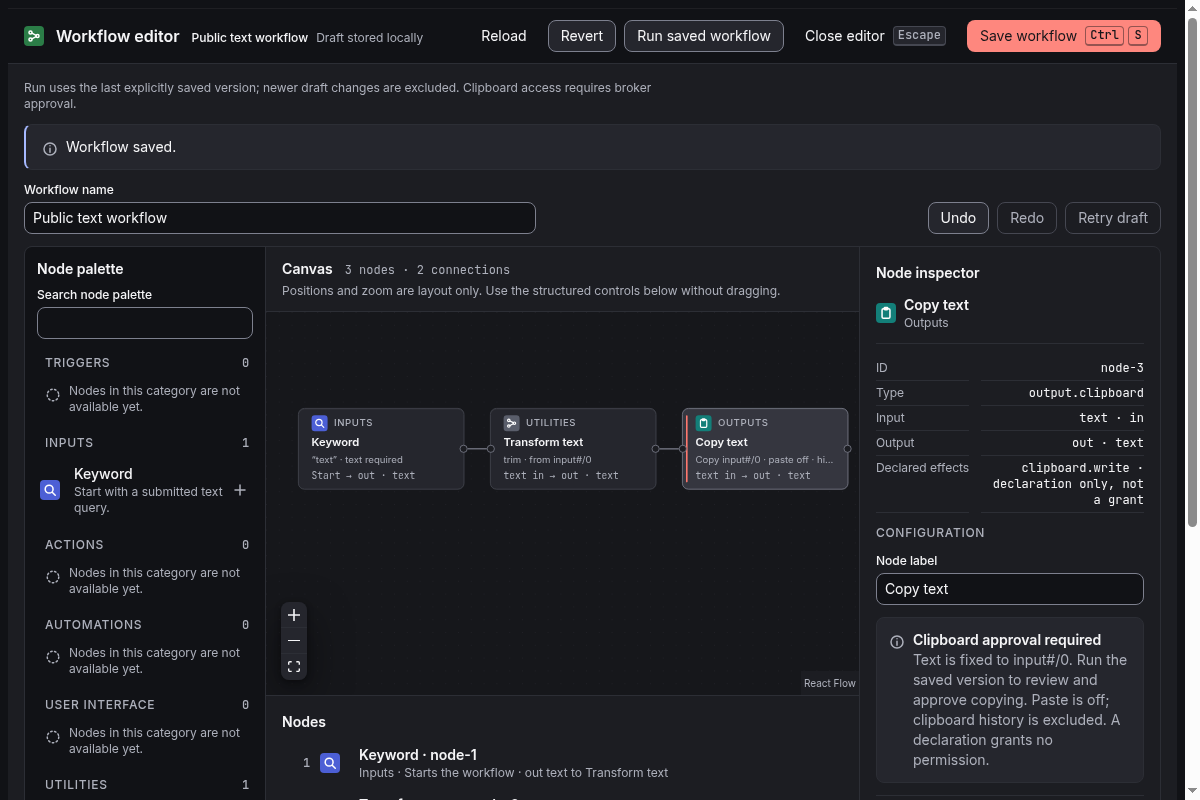
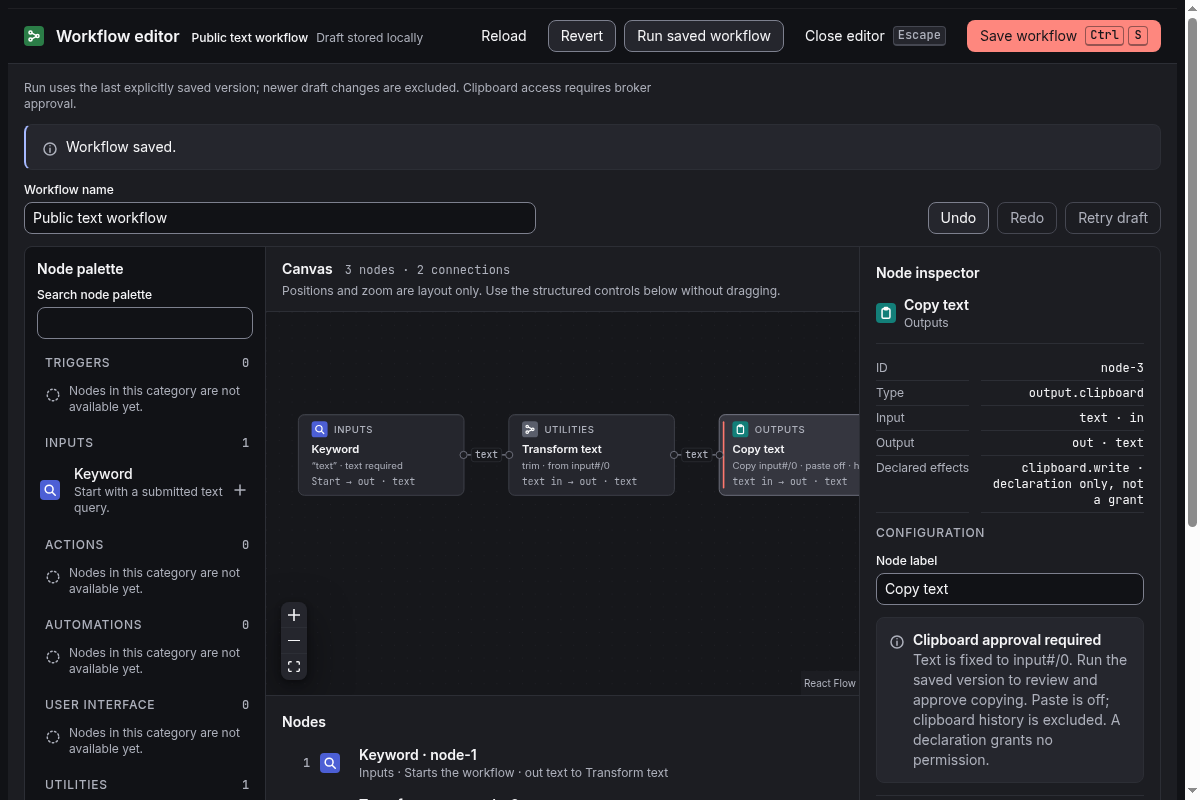
fix(W2-01): project canvas layout for text size and restore typed edge labels
Cards follow the rem node-width token while persisted positions are numeric
flow units, so at 200% root text default cards overlapped. Render through a
UI-only measured projection: stored positions x f on display, exact inverse
for pointer/keyboard moves, where f fits a measured card plus a measured
typed-label slot into the controller's 240-unit step. Layout CSS px probes
keep native Electron zoom neutral. Text resizing never writes; persisted
positions, viewport, undo history and the execution graph stay exact.

Restore typed edge labels as a custom edge showing the registry port kind,
also in the focusable edge name; card/handle/select/inspector port text now
reads registry kinds. Ports stay left/right: the controller persists a
horizontal default row, documented with a proposed pure-layout helper.

Three new Chromium regressions (fail on 8e3d1116 at 100%/200%, pass here),
a hidden fixture observation of the synthetic stored graph, and a native
setZoomFactor(2) presentation assertion in the actual editor flow. W2-01 UI
22, W2-03 UI 24, units/contracts/security and three actual flows pass.

Changed region(s): [[0.555, 0.5, 0.74, 0.625], [0.4008, 0.5, 0.5242, 0.625], [0.2467, 0.5, 0.3392, 0.625]]

diff --git a/apps/desktop/src/features/workflows/canvas/index.tsx b/apps/desktop/src/features/workflows/canvas/index.tsx
@@ -1,6 +1,6 @@
-import { useEffect, useId, useRef, useState, useSyncExternalStore } from 'react';
+import { useEffect, useId, useLayoutEffect, useRef, useState, useSyncExternalStore } from 'react';
 import type { ReactNode } from 'react';
-import { Background, BackgroundVariant, Controls, Handle, Position, ReactFlow, applyNodeChanges, type Node, type NodeProps } from '@xyflow/react';
+import { Background, BackgroundVariant, BaseEdge, Controls, EdgeLabelRenderer, Handle, Position, ReactFlow, applyNodeChanges, getBezierPath, type Edge, type EdgeProps, type Node, type NodeProps } from '@xyflow/react';
 import '@xyflow/react/dist/style.css';
 import { Button, EmptyState, ErrorState, GlyphTile, GroupCaption, LineIcon, LoadingState, StatePlate, TextField, UnavailableState } from '@linuxcast/ui';
 import type { GlyphCategory, LineIconName } from '@linuxcast/ui';
@@ -12,6 +12,7 @@ import type { WorkflowRunApi,WorkflowEditorOpenIntent } from '@linuxcast/contrac
 import { WorkflowRunPanel } from '../debugger/index.tsx';
 import { WorkflowEditorController } from './controller.ts';
 import { configSummary, declaredEffects, flowSummary, isReceipt, isValidationMessage, nodeTile, splitMessage } from './ui/presentation.ts';
+import { projectionFactor, toDisplay, toStored } from './ui/projection.ts';
 import './editor.css';
 
 /*
@@ -20,7 +21,9 @@ import './editor.css';
  * "States and motion", "Accessibility"). Presentation only: the controller owns graph, draft, receipts and close.
  */
 const categories = ['Triggers', 'Inputs', 'Actions', 'Automations', 'User Interface', 'Utilities', 'Outputs'];
-type CanvasNode = Node<{ label: string; category: string; input: string | null; outputs: string[]; summary: string; tile: GlyphCategory; icon: LineIconName | undefined }, 'workflow'>;
+type PortOutput = { port: string; kind: string };
+type CanvasNode = Node<{ label: string; category: string; input: string | null; outputs: PortOutput[]; summary: string; tile: GlyphCategory; icon: LineIconName | undefined }, 'workflow'>;
+type CanvasEdge = Edge<{ kind: string }, 'typed'>;
 function WorkflowCard({ data, selected }: NodeProps<CanvasNode>) {
   return <div className="wf-node" data-selected={selected || undefined}>
     {data.input && <Handle type="target" id="in" position={Position.Left} role="img" aria-label={`${data.input} input in`} />}
@@ -28,11 +31,33 @@ function WorkflowCard({ data, selected }: NodeProps<CanvasNode>) {
     <strong className="wf-node-title" title={data.label}>{data.label}</strong>
     <span className="wf-node-line" title={data.summary}>{data.summary}</span>
     <span className="wf-node-line wf-node-ports">{portLine(data.input, data.outputs)}</span>
-    {data.outputs.map(port => <Handle key={port} type="source" id={port} position={Position.Right} role="img" aria-label={`text output ${port}`} />)}
+    {data.outputs.map(({ port, kind }) => <Handle key={port} type="source" id={port} position={Position.Right} role="img" aria-label={`${kind} output ${port}`} />)}
   </div>;
 }
 const nodeTypes = { workflow: WorkflowCard };
-function portLine(input: string | null, outputs: readonly string[]) { return `${input ? `${input} in` : 'Start'} → ${outputs.map(port => `${port} · text`).join(', ')}`; }
+function portLine(input: string | null, outputs: readonly PortOutput[]) { return `${input ? `${input} in` : 'Start'} → ${outputs.map(({ port, kind }) => `${port} · ${kind}`).join(', ')}`; }
+/** Typed connection: controlBorder curve plus the port kind as a monospace label at its midpoint. The kind
+ *  is also in the focusable edge's accessible name, so the decorative label is hidden from AT. */
+function TypedEdge({ id, sourceX, sourceY, targetX, targetY, sourcePosition, targetPosition, data, markerEnd, interactionWidth }: EdgeProps<CanvasEdge>) {
+  const [path, labelX, labelY] = getBezierPath({ sourceX, sourceY, sourcePosition, targetX, targetY, targetPosition });
+  const kind = data?.kind ?? 'unknown';
+  return <><BaseEdge id={id} path={path} {...(markerEnd ? { markerEnd } : {})} {...(interactionWidth === undefined ? {} : { interactionWidth })} />
+    <EdgeLabelRenderer><span className="wf-edge-label" data-edge-id={id} title={`${kind} connection`} aria-hidden="true" style={{ transform: `translate(-50%, -50%) translate(${labelX}px, ${labelY}px)` }}>{kind}</span></EdgeLabelRenderer></>;
+}
+const edgeTypes = { typed: TypedEdge };
+/** Measures the rem-token card width and the widest typed label slot; both follow root text size. */
+function useMeasuredProjection(probe: HTMLElement | null): number {
+  const [size, setSize] = useState({ card: 0, slot: 0 });
+  useLayoutEffect(() => {
+    if (!probe) return;
+    const card = probe.querySelector<HTMLElement>('[data-probe="card"]'), slot = probe.querySelector<HTMLElement>('[data-probe="slot"]');
+    if (!card || !slot) return;
+    const measure = () => { /* Layout CSS px: unaffected by transforms and native zoom. */ const next = { card: card.offsetWidth, slot: slot.offsetWidth }; setSize(previous => previous.card === next.card && previous.slot === next.slot ? previous : next); };
+    measure(); const observer = new ResizeObserver(measure); observer.observe(card); observer.observe(slot);
+    return () => observer.disconnect();
+  }, [probe]);
+  return projectionFactor(size.card, size.slot);
+}
 function Select({ label, value, onChange, children, disabled = false }: { label: string; value: string; onChange: (value: string) => void; children: ReactNode; disabled?: boolean }) {
   const id = useId(); return <div className="lc-field"><label className="lc-field-label" htmlFor={id}>{label}</label><select id={id} className="lc-input lc-focus" value={value} onChange={event => onChange(event.target.value)} disabled={disabled}>{children}</select></div>;
 }
@@ -79,17 +104,21 @@ export function WorkflowEditor({ api, runApi,launchIntent }: { api: WorkflowEdit
   function confirmAction(action: 'reload' | 'revert') { if (state.dirty) setConfirm(action); else if (action === 'reload') void controller.load(); else void controller.write('revert'); }
   const titleOf = (type: string) => EDITOR_NODE_TYPES.find(item => item.type === type);
   const outputsOf = (node: WorkflowDefinition['nodes'][number]) => { try { return [...(EDITOR_NODE_REGISTRY.get(node.type)?.outputPorts(node.config) ?? [])]; } catch { return [] as string[]; /* Invalid drafts remain editable. */ } };
+  const kindOf = (node: WorkflowDefinition['nodes'][number] | undefined, port: string) => { if (!node) return 'unknown'; try { return EDITOR_NODE_REGISTRY.get(node.type)?.outputKinds(node.config).get(port) ?? 'unknown'; } catch { return 'unknown'; } };
+  const [probe, setProbe] = useState<HTMLDivElement | null>(null), factor = useMeasuredProjection(probe);
   const nodes: CanvasNode[] = (draft?.nodes ?? []).map(node => {
     const entry = titleOf(node.type), registration = EDITOR_NODE_REGISTRY.get(node.type), tile = nodeTile(node.type), outputs = outputsOf(node);
     const label = node.label || entry?.title || 'Unknown node', category = entry?.category ?? 'Unavailable', summary = configSummary(node);
-    return { id: node.id, type: 'workflow', position: draft?.editor.positions[node.id] ?? { x: 0, y: 0 }, ...(measurements[node.id] ? { measured: measurements[node.id] } : {}), selected: node.id === state.selected,
+    return { id: node.id, type: 'workflow', position: toDisplay(draft?.editor.positions[node.id] ?? { x: 0, y: 0 }, factor), ...(measurements[node.id] ? { measured: measurements[node.id] } : {}), selected: node.id === state.selected,
       ariaRole: 'button', domAttributes: { 'aria-pressed': node.id === state.selected },
-      data: { label, category, input: registration?.inputKind ?? null, outputs, summary, tile: tile.category, icon: tile.icon },
+      data: { label, category, input: registration?.inputKind ?? null, outputs: outputs.map(port => ({ port, kind: kindOf(node, port) })), summary, tile: tile.category, icon: tile.icon },
       /* No aria-label override: the node button is named from its visible card text (category, title,
          configuration, typed ports), so visible and accessible names cannot drift. */ };
   });
-  const edges = (draft?.edges ?? []).map(edge => ({ id: edge.id, source: edge.from.nodeId, sourceHandle: edge.from.port, target: edge.to.nodeId, targetHandle: edge.to.port,
-    ariaLabel: `Connection ${edge.from.nodeId} ${edge.from.port} to ${edge.to.nodeId} in` }));
+  const edges: CanvasEdge[] = (draft?.edges ?? []).map(edge => { const kind = kindOf(draft?.nodes.find(node => node.id === edge.from.nodeId), edge.from.port);
+    return { id: edge.id, type: 'typed', source: edge.from.nodeId, sourceHandle: edge.from.port, target: edge.to.nodeId, targetHandle: edge.to.port, data: { kind },
+      ariaLabel: `Connection ${edge.from.nodeId} ${edge.from.port} to ${edge.to.nodeId} in · ${kind}` }; });
+  const probeKind = edges.reduce((longest, edge) => (edge.data?.kind.length ?? 0) > longest.length ? edge.data!.kind : longest, 'text');
   const source = draft?.nodes.find(node => node.id === from);
   const ports: string[] = source ? outputsOf(source) : [];
   if(runOpen&&runApi&&state.record?.saved)return <main className="wf-run-shell"><WorkspaceHeader /><WorkflowRunPanel api={runApi} editorRevision={state.record.revision} savedDefinition={state.record.saved} {...(initialEntry===undefined?{}:{initialEntry})} onClose={()=>{setRunOpen(false);requestAnimationFrame(()=>runButton.current?.focus());}}/></main>;
@@ -126,9 +155,9 @@ export function WorkflowEditor({ api, runApi,launchIntent }: { api: WorkflowEdit
           </aside>
           <section className="wf-center" aria-label="Workflow graph">
             <div className="wf-canvas-toolbar"><h2 className="wf-panel-title">Canvas</h2><span className="wf-count">{draft.nodes.length} nodes · {draft.edges.length} connections</span><p className="wf-caption">Positions and zoom are layout only. Use the structured controls below without dragging.</p></div>
-            <div className="wf-canvas">{draft.nodes.length ? <ReactFlow<CanvasNode> nodes={nodes} edges={edges} nodeTypes={nodeTypes} minZoom={0.25} maxZoom={2} viewport={viewport} onViewportChange={setViewport} deleteKeyCode={null} nodesDraggable={!locked} nodesConnectable={!locked} elementsSelectable={!locked}
+            <div className="wf-canvas" data-projection={factor}><div className="wf-canvas-probe" ref={setProbe} aria-hidden="true"><span data-probe="card" /><span data-probe="slot" className="wf-edge-label-slot"><span className="wf-edge-label">{probeKind}</span></span></div>{draft.nodes.length ? <ReactFlow<CanvasNode, CanvasEdge> nodes={nodes} edges={edges} nodeTypes={nodeTypes} edgeTypes={edgeTypes} minZoom={0.25} maxZoom={2} viewport={viewport} onViewportChange={setViewport} deleteKeyCode={null} nodesDraggable={!locked} nodesConnectable={!locked} elementsSelectable={!locked}
               onNodesChange={changes => { const updated = applyNodeChanges(changes, nodes); const dimensions = changes.filter(change => change.type === 'dimensions'); if (dimensions.length) setMeasurements(previous => ({ ...previous, ...Object.fromEntries(updated.filter(node => node.measured?.width && node.measured.height).map(node => [node.id, { width: node.measured!.width!, height: node.measured!.height! }])) }));
-                for (const change of changes) { if (change.type === 'select' && change.selected) controller.select(change.id); if (change.type === 'position' && change.position) controller.positions({ [change.id]: change.position }); } }}
+                for (const change of changes) { if (change.type === 'select' && change.selected) controller.select(change.id); if (change.type === 'position' && change.position) controller.positions({ [change.id]: toStored(change.position, factor) }); } }}
               onNodeClick={(_, node) => controller.select(node.id)} onConnect={connection => { if (connection.sourceHandle && connection.targetHandle === 'in') controller.connect(connection.source, connection.sourceHandle, connection.target); }}
               onMoveEnd={(event, viewport) => { if (event) controller.viewport(viewport); }} proOptions={{ hideAttribution: false }}>{/* 16-unit canvasDot grid in flow coordinates (token canvasDotSpacing). */}<Background variant={BackgroundVariant.Dots} gap={16} size={1} color="var(--lc-canvas-dot)" /><Controls showInteractive={false} /></ReactFlow>
               : <EmptyState title="Start with a Keyword" description="Add a Keyword from the palette, then Transform text and Copy text. Every step is also reachable from the structured controls below." />}</div>
@@ -136,13 +165,13 @@ export function WorkflowEditor({ api, runApi,launchIntent }: { api: WorkflowEdit
               <section aria-label="Structured nodes"><h2 className="wf-panel-title">Nodes</h2>{draft.nodes.length ? <ol className="wf-steps">{draft.nodes.map((node, index) => { const tile = nodeTile(node.type), entry = titleOf(node.type), selected = node.id === state.selected;
                 return <li key={node.id} className="wf-step" data-current={selected || undefined}><span className="wf-step-index" aria-hidden="true">{index + 1}</span><GlyphTile category={tile.category} icon={tile.icon} />
                   <Button variant="ghost" className="wf-step-select" aria-pressed={selected} disabled={locked} onClick={() => { controller.select(node.id); requestAnimationFrame(() => labelRef.current?.focus()); }}><span className="wf-step-title">{node.label || entry?.title || 'Unknown node'} · {node.id}</span><span className="wf-caption">{entry?.category ?? 'Unavailable'} · {flowSummary(draft, node, EDITOR_NODE_REGISTRY.get(node.type)?.inputKind != null)}</span></Button></li>; })}</ol> : <p className="lc-muted">No nodes yet. Add a Keyword from the palette.</p>}</section>
-              <section aria-label="Structured connections"><h2 className="wf-panel-title">Connections</h2><div className="wf-connections"><Select label="Connection source" value={from} disabled={locked} onChange={value => { setFrom(value); setPort('out'); }}><option value="">Choose a source</option>{draft.nodes.map(node => <option key={node.id} value={node.id}>{node.label || node.type} · {node.id}</option>)}</Select><Select label="Output port" value={port} disabled={locked} onChange={setPort}>{!ports.length && <option value="out">Choose a source first</option>}{ports.map(port => <option key={port} value={port}>{port} · text</option>)}</Select><Select label="Connection target" value={to} disabled={locked} onChange={setTo}><option value="">Choose a target</option>{draft.nodes.filter(node => EDITOR_NODE_REGISTRY.get(node.type)?.inputKind !== null).map(node => <option key={node.id} value={node.id}>{node.label || node.type} · {node.id} · text in</option>)}</Select><Button disabled={!source || !draft.nodes.some(node => node.id === to) || !ports.includes(port) || locked} onClick={() => controller.connect(from, port, to)}>Connect nodes</Button></div>
-                {draft.edges.length ? <ul className="wf-edge-list">{draft.edges.map(edge => <li key={edge.id}><span className="wf-edge-text"><span>{draft.nodes.find(node => node.id === edge.from.nodeId)?.label || edge.from.nodeId} ({edge.from.port}) → {draft.nodes.find(node => node.id === edge.to.nodeId)?.label || edge.to.nodeId} (in)</span><span className="wf-edge-type">text</span></span><Button disabled={locked} onClick={() => controller.disconnect(edge.id)} aria-label={`Remove connection ${edge.id}`}>Remove connection</Button></li>)}</ul> : <p className="lc-muted">No connections yet.</p>}</section>
+              <section aria-label="Structured connections"><h2 className="wf-panel-title">Connections</h2><div className="wf-connections"><Select label="Connection source" value={from} disabled={locked} onChange={value => { setFrom(value); setPort('out'); }}><option value="">Choose a source</option>{draft.nodes.map(node => <option key={node.id} value={node.id}>{node.label || node.type} · {node.id}</option>)}</Select><Select label="Output port" value={port} disabled={locked} onChange={setPort}>{!ports.length && <option value="out">Choose a source first</option>}{ports.map(port => <option key={port} value={port}>{port} · {kindOf(source, port)}</option>)}</Select><Select label="Connection target" value={to} disabled={locked} onChange={setTo}><option value="">Choose a target</option>{draft.nodes.filter(node => EDITOR_NODE_REGISTRY.get(node.type)?.inputKind !== null).map(node => <option key={node.id} value={node.id}>{node.label || node.type} · {node.id} · {EDITOR_NODE_REGISTRY.get(node.type)?.inputKind ?? 'unknown'} in</option>)}</Select><Button disabled={!source || !draft.nodes.some(node => node.id === to) || !ports.includes(port) || locked} onClick={() => controller.connect(from, port, to)}>Connect nodes</Button></div>
+                {draft.edges.length ? <ul className="wf-edge-list">{draft.edges.map(edge => <li key={edge.id}><span className="wf-edge-text"><span>{draft.nodes.find(node => node.id === edge.from.nodeId)?.label || edge.from.nodeId} ({edge.from.port}) → {draft.nodes.find(node => node.id === edge.to.nodeId)?.label || edge.to.nodeId} (in)</span><span className="wf-edge-type">{kindOf(draft.nodes.find(node => node.id === edge.from.nodeId), edge.from.port)}</span></span><Button disabled={locked} onClick={() => controller.disconnect(edge.id)} aria-label={`Remove connection ${edge.id}`}>Remove connection</Button></li>)}</ul> : <p className="lc-muted">No connections yet.</p>}</section>
             </div>
           </section>
           <aside className="wf-inspector-panel" aria-label="Node inspector"><h2 className="wf-panel-title">Node inspector</h2>{current ? (() => { const tile = nodeTile(current.type), entry = titleOf(current.type), registration = EDITOR_NODE_REGISTRY.get(current.type), outputs = outputsOf(current); return <div className="wf-inspector" key={current.id}>
             <div className="wf-inspector-head"><GlyphTile category={tile.category} icon={tile.icon} /><div><p className="wf-inspector-name" title={current.label || entry?.title}>{current.label || entry?.title || 'Unknown node'}</p><p className="wf-caption">{entry?.category ?? 'Unavailable'}</p></div></div>
-            <dl className="wf-facts"><div><dt>ID</dt><dd>{current.id}</dd></div><div><dt>Type</dt><dd>{current.type}</dd></div><div><dt>Input</dt><dd>{registration?.inputKind ? `${registration.inputKind} · in` : 'Starts the workflow'}</dd></div><div><dt>Output</dt><dd>{outputs.length ? outputs.map(port => `${port} · text`).join(', ') : '—'}</dd></div><div><dt>Declared effects</dt><dd>{declaredEffects(current.type)}</dd></div></dl>
+            <dl className="wf-facts"><div><dt>ID</dt><dd>{current.id}</dd></div><div><dt>Type</dt><dd>{current.type}</dd></div><div><dt>Input</dt><dd>{registration?.inputKind ? `${registration.inputKind} · in` : 'Starts the workflow'}</dd></div><div><dt>Output</dt><dd>{outputs.length ? outputs.map(port => `${port} · ${kindOf(current, port)}`).join(', ') : '—'}</dd></div><div><dt>Declared effects</dt><dd>{declaredEffects(current.type)}</dd></div></dl>
             <p className="wf-section-caption">Configuration</p>
             <TextField ref={labelRef} label="Node label" value={current.label ?? ''} maxLength={128} disabled={locked} onChange={event => controller.configure(current.id, event.target.value, current.config)} />
             {current.type === 'input.keyword' ? <><TextField label="Keyword" value={String(current.config.keyword ?? '')} maxLength={64} disabled={locked} {...(!registration?.config.safeParse(current.config).success ? {error: 'Use a keyword without spaces or control characters.'} : {})} onChange={event => update({ ...current.config, keyword: event.target.value })} /><Select label="Argument" value={String(current.config.argument)} disabled={locked} onChange={argument => update({ ...current.config, argument })}><option value="required">Required</option><option value="optional">Optional</option><option value="none">None</option></Select><label className="wf-check"><input type="checkbox" checked={current.config.trimQuery === true} disabled={locked} onChange={event => update({ ...current.config, trimQuery: event.target.checked })} />Trim query</label></> : current.type === 'utility.transform' ? <><Select label="Text operation" value={String(current.config.operation)} disabled={locked} onChange={operation => update({ ...current.config, operation })}>{['trim', 'upper', 'lower', 'title', 'normalize'].map(operation => <option key={operation} value={operation}>{operation}</option>)}</Select><TextField label="Locale (optional)" value={String(current.config.locale ?? '')} maxLength={64} disabled={locked} onChange={event => { const { locale: _locale, ...config } = current.config; void _locale; update(event.target.value ? { ...config, locale: event.target.value } : config); }} /><p className="wf-caption">Source is fixed to input#/0. Other bindings are not available yet.</p></> : current.type === 'output.clipboard' ? runApi ? <div className="wf-note"><LineIcon name="info" /><div><h3>Clipboard approval required</h3><p className="lc-muted">Text is fixed to input#/0. Run the saved version to review and approve copying. Paste is off; clipboard history is excluded. A declaration grants no permission.</p></div></div> : <UnavailableState layout="band" title="Clipboard execution unavailable" description="Text is fixed to input#/0. Paste is off; clipboard history is excluded. The clipboard.write declaration does not grant permission or copy anything." /> : <UnavailableState layout="band" title="Node configuration unavailable" description="This node is not in the current editing palette." />}

diff --git a/apps/desktop/src/features/workflows/canvas/tests/editor.ui.test.ts b/apps/desktop/src/features/workflows/canvas/tests/editor.ui.test.ts
@@ -97,3 +97,52 @@ test('200 percent text keeps the focused structured node row and selected canvas
   expect(await row.evaluate(element => element.scrollWidth <= element.clientWidth + 1)).toBe(true);
   expect((await new AxeBuilder({ page }).analyze()).violations).toEqual([]); await page.screenshot({ path: `${evidence}/dark-workflow-200-percent-focus.png`, fullPage: true });
 });
+
+// Text-size projection regressions: cards follow rem tokens, stored positions stay numeric and exact.
+type Box = { left: number; top: number; right: number; bottom: number };
+async function canvasGeometry(page: Page) {
+  return page.evaluate(() => {
+    const box = (element: Element): Box => { const rect = element.getBoundingClientRect(); return { left: rect.left, top: rect.top, right: rect.right, bottom: rect.bottom }; };
+    return { nodes: [...document.querySelectorAll('.react-flow__node')].map(box), labels: [...document.querySelectorAll('.react-flow .wf-edge-label')].map(element => ({ ...box(element), text: element.textContent, title: element.getAttribute('title') })) };
+  });
+}
+const overlaps = (a: Box, b: Box) => a.left < b.right - 0.5 && b.left < a.right - 0.5 && a.top < b.bottom - 0.5 && b.top < a.bottom - 0.5;
+const storedGraph = async (page: Page) => JSON.parse((await page.locator('pre[data-observe="stored-graph"]').textContent()) || 'null') as { positions: Record<string, { x: number; y: number }>; viewport: unknown; nodes: unknown[]; edges: unknown[] };
+const writes = async (page: Page) => Number(/writes: (\d+)/.exec((await page.locator('output').first().textContent()) ?? '')?.[1]);
+async function buildChain(page: Page) { await fresh(page); await add(page, 'Keyword'); await add(page, 'Transform text'); await add(page, 'Copy text'); await connect(page, 'node-1', 'node-2'); await connect(page, 'node-2', 'node-3'); }
+for (const scale of ['100%', '200%']) test(`${scale} root text: default cards and typed edge labels never overlap and labels stay reachable`, async ({ page }) => {
+  await ready(page); await page.evaluate(value => { document.documentElement.style.fontSize = value; }, scale); await buildChain(page);
+  await expect.poll(async () => { const { nodes } = await canvasGeometry(page); return nodes.length === 3 && !nodes.some((a, i) => nodes.some((b, j) => i < j && overlaps(a, b))); }, { message: 'cards overlap' }).toBe(true);
+  await expect(page.locator('.react-flow .wf-edge-label')).toHaveCount(2);
+  await expect.poll(async () => { const { nodes, labels } = await canvasGeometry(page); return nodes.length === 3 && labels.length === 2 && !nodes.some((a, i) => nodes.some((b, j) => i < j && overlaps(a, b))) && !labels.some(label => nodes.some(node => overlaps(label, node))); }).toBe(true);
+  const { labels } = await canvasGeometry(page); expect(labels.map(label => [label.text, label.title])).toEqual([['text', 'text connection'], ['text', 'text connection']]);
+  const edge = page.locator('.react-flow__edge').first(); await edge.focus(); await expect(edge).toBeFocused(); await expect(edge).toHaveAccessibleName(/^Connection node-\d out to node-\d in · text$/);
+  await expect(page.locator('.react-flow__node[data-id="node-1"] .react-flow__handle-right')).toHaveAttribute('aria-label', 'text output out');
+  expect((await new AxeBuilder({ page }).analyze()).violations).toEqual([]);
+  await page.screenshot({ path: `${evidence}/dark-workflow-canvas-labels-${scale === '100%' ? '100' : '200'}-percent.png`, fullPage: true });
+});
+test('text resizing never writes or changes stored layout, viewport, undo or the execution graph; pointer moves map back exactly', async ({ page }) => {
+  await ready(page); await buildChain(page); await page.waitForTimeout(700);
+  const before = await storedGraph(page), count = await writes(page), factor100 = Number(await page.locator('.wf-canvas').getAttribute('data-projection'));
+  expect(before.edges).toHaveLength(2); await expect(page.getByRole('button', { name: 'Undo', exact: true })).toBeEnabled(); await expect(page.getByRole('button', { name: 'Redo', exact: true })).toBeDisabled();
+  await page.evaluate(() => { document.documentElement.style.fontSize = '200%'; });
+  await expect.poll(async () => Number(await page.locator('.wf-canvas').getAttribute('data-projection'))).toBeGreaterThan(factor100 * 1.5);
+  await page.waitForTimeout(700); expect(await writes(page)).toBe(count); expect(await storedGraph(page)).toEqual(before);
+  await expect(page.getByRole('button', { name: 'Undo', exact: true })).toBeEnabled(); await expect(page.getByRole('button', { name: 'Redo', exact: true })).toBeDisabled();
+  // Pointer drag in the projected canvas stores the exact inverse (screen delta / zoom / factor).
+  const factor = Number(await page.locator('.wf-canvas').getAttribute('data-projection'));
+  const zoom = await page.locator('.react-flow__viewport').evaluate(element => new DOMMatrixReadOnly(getComputedStyle(element).transform).a);
+  const node = page.locator('.react-flow__node[data-id="node-1"]'), start = (await node.boundingBox())!;
+  await page.mouse.move(start.x + start.width / 2, start.y + start.height / 2); await page.mouse.down(); await page.mouse.move(start.x + start.width / 2 + 60, start.y + start.height / 2 + 30, { steps: 6 }); await page.mouse.move(start.x + start.width / 2 + 120, start.y + start.height / 2 + 60, { steps: 6 }); await page.mouse.up();
+  const end = (await node.boundingBox())!; await page.waitForTimeout(700);
+  const moved = await storedGraph(page);
+  expect(moved.positions['node-1']!.x - before.positions['node-1']!.x).toBeCloseTo((end.x - start.x) / zoom / factor, 0);
+  expect(moved.positions['node-1']!.y - before.positions['node-1']!.y).toBeCloseTo((end.y - start.y) / zoom / factor, 0);
+  expect(moved.positions['node-2']).toEqual(before.positions['node-2']); expect(moved.positions['node-3']).toEqual(before.positions['node-3']); expect(moved.nodes).toEqual(before.nodes); expect(moved.edges).toEqual(before.edges);
+  // Keyboard selection still works on projected nodes; Undo restores the stored (not projected) position.
+  const second = page.locator('.react-flow__node[data-id="node-2"]'); await second.focus(); await page.keyboard.press('Enter'); await expect(second).toHaveAttribute('aria-pressed', 'true');
+  await page.getByRole('button', { name: 'Undo', exact: true }).click(); await page.waitForTimeout(700);
+  expect((await storedGraph(page)).positions).toEqual(before.positions);
+  const settled = await writes(page); await page.evaluate(() => { document.documentElement.style.fontSize = ''; }); await page.waitForTimeout(700);
+  expect(await writes(page)).toBe(settled); expect((await storedGraph(page)).positions).toEqual(before.positions);
+});

diff --git a/apps/desktop/tests/workflow-editor.integration.test.ts b/apps/desktop/tests/workflow-editor.integration.test.ts
@@ -36,6 +36,14 @@ it('opens the real workflow editor, saves a keyboard-built graph and recovers dr
   const run=editor.getByRole('button',{name:/^Run/});expect(await run.isDisabled()).toBe(false);
   const evidence=join(root,'apps/desktop/evidence/instrument-workflows');mkdirSync(evidence,{recursive:true});
   for(const theme of ['dark','light'] as const){await app.evaluate(({nativeTheme},theme)=>{nativeTheme.themeSource=theme;},theme);await expect.poll(()=>editor.locator('[data-lc-theme]').first().getAttribute('data-lc-theme')).toBe(theme);await editor.screenshot({path:join(evidence,`workflow-editor-application-${theme}-saved.png`)});expect((await new AxeBuilder({page:editor}).setLegacyMode().analyze()).violations).toEqual([]);}
+  // Presentation: native zoom scales CSS pixels uniformly, so the UI-only canvas projection stays unchanged and cards/typed labels do not collide; stored layout is untouched.
+  {const factor=await editor.locator('.wf-canvas').getAttribute('data-projection'),stored=(await loaded(editor))!;const zoom=(value:number)=>app.evaluate(({BrowserWindow},value)=>{BrowserWindow.getAllWindows().find(window=>window.webContents.getURL()==='linuxcast-app://shell/workflow-editor.html')!.webContents.setZoomFactor(value);},value);
+    await zoom(2);await expect.poll(()=>editor.evaluate(()=>window.devicePixelRatio)).toBeGreaterThan(1.5);await expect.poll(()=>editor.locator('.react-flow .wf-edge-label').count()).toBe(2);expect(await editor.locator('.wf-canvas').getAttribute('data-projection')).toBe(factor);
+    const measure=()=>editor.evaluate(()=>[...document.querySelectorAll('.react-flow__node, .react-flow .wf-edge-label')].map(element=>{const rect=element.getBoundingClientRect();return {node:element.classList.contains('react-flow__node'),visible:getComputedStyle(element).visibility!=='hidden',left:rect.left,right:rect.right,top:rect.top,bottom:rect.bottom};}));
+    await expect.poll(async()=>(await measure()).filter(box=>box.visible&&box.right-box.left>1&&box.bottom-box.top>1).length,{timeout:5000}).toBe(5);const boxes=await measure();
+    expect(boxes.some((a,i)=>boxes.some((b,j)=>i<j&&(a.node||b.node)&&a.left<b.right-0.5&&b.left<a.right-0.5&&a.top<b.bottom-0.5&&b.top<a.bottom-0.5))).toBe(false);
+    const canvas=await editor.evaluate(()=>{const rect=document.querySelector('.wf-canvas')!.getBoundingClientRect();return {left:rect.left,right:rect.right,top:rect.top,bottom:rect.bottom};});expect(boxes.filter(box=>box.node).every(box=>box.left<canvas.right&&box.right>canvas.left&&box.top<canvas.bottom&&box.bottom>canvas.top)).toBe(true);
+    await editor.evaluate(async()=>{document.querySelector('.wf-canvas')!.scrollIntoView({block:'center'});await new Promise(resolve=>requestAnimationFrame(()=>requestAnimationFrame(resolve)));});const image=await app.evaluate(async({BrowserWindow})=>(await BrowserWindow.getAllWindows().find(window=>window.webContents.getURL()==='linuxcast-app://shell/workflow-editor.html')!.webContents.capturePage()).toPNG().toString('base64'));writeFileSync(join(evidence,'workflow-editor-application-light-zoom-200.png'),Buffer.from(image,'base64'));await zoom(1);expect(await loaded(editor)).toEqual(stored);}
   // Native window-close must flush an edit made before its500ms autosave timer.
   await editor.getByRole('textbox',{name:'Workflow name',exact:true}).fill('Public recovered draft');const closed=editor.waitForEvent('close');await app.evaluate(({BrowserWindow})=>{BrowserWindow.getAllWindows().find(window=>window.webContents.getURL()==='linuxcast-app://shell/workflow-editor.html')!.close();});await closed;
   editor=await open();await expect.poll(()=>editor.getByRole('textbox',{name:'Workflow name',exact:true}).inputValue()).toBe('Public recovered draft');expect((await loaded(editor))?.saved?.name).toBe('Public text workflow');

diff --git a/apps/desktop/src/features/workflows/canvas/editor.css b/apps/desktop/src/features/workflows/canvas/editor.css
@@ -79,6 +79,17 @@
 .wf-editor .react-flow__handle { inline-size: var(--lc-workflow-port-size); block-size: var(--lc-workflow-port-size); min-inline-size: 0; min-block-size: 0; border: var(--lc-stroke-edge) solid var(--lc-control-border); background: var(--lc-surface); }
 .wf-editor .react-flow__edge-path { stroke: var(--lc-control-border); stroke-width: var(--lc-stroke-edge); }
 .wf-editor .react-flow__edge.selected .react-flow__edge-path, .wf-editor .react-flow__edge:focus-visible .react-flow__edge-path { stroke: var(--lc-focus); }
+.wf-edge-label {
+  position: absolute; pointer-events: none; padding: 0 var(--lc-space-4); white-space: nowrap;
+  border: var(--lc-hairline) solid var(--lc-divider); border-radius: var(--lc-radius-keycap); background: var(--lc-canvas); color: var(--lc-muted);
+  font: var(--lc-weight-medium) var(--lc-text-caption)/var(--lc-leading-caption) var(--lc-font-mono);
+}
+/* Hidden measurement probe for the UI-only layout projection (ui/projection.ts): one token-width card and
+   one typed-label slot (label plus spacing either side). It never takes layout space or focus. */
+.wf-canvas-probe { position: absolute; inset-block-start: 0; inset-inline-start: 0; visibility: hidden; pointer-events: none; display: grid; justify-items: start; }
+.wf-canvas-probe [data-probe='card'] { display: block; inline-size: var(--lc-workflow-node-width); block-size: 0; }
+.wf-edge-label-slot { display: inline-block; padding-inline: var(--lc-space-8); }
+.wf-edge-label-slot .wf-edge-label { position: static; display: inline-block; }
 .wf-editor .react-flow__controls { box-shadow: var(--lc-elevation-popover); border-radius: var(--lc-radius-row); overflow: hidden; }
 .wf-editor .react-flow__controls-button { color: var(--lc-text); background: var(--lc-raised); border-color: var(--lc-divider); }
 .wf-editor .react-flow__controls-button:hover { background: var(--lc-selection); }
@@ -134,6 +145,7 @@
   .wf-node[data-selected]::before, .wf-step[data-current]::before { forced-color-adjust: none; background: Highlight; }
   .wf-editor .react-flow__handle { border-color: CanvasText; background: Canvas; }
   .wf-editor .react-flow__edge-path { stroke: CanvasText; }
+  .wf-edge-label { border-color: CanvasText; background: Canvas; color: CanvasText; }
   .wf-canvas, .wf-editor .react-flow, .wf-editor .react-flow__pane, .wf-editor .react-flow__background { --xy-background-color: Canvas; background: Canvas; }
 }
 /* Accessible verb prefix for palette rows whose visible label is the noun ("Add" + "Keyword"). */

diff --git a/apps/desktop/src/features/workflows/canvas/fixtures/main.tsx b/apps/desktop/src/features/workflows/canvas/fixtures/main.tsx
@@ -9,7 +9,7 @@ function Fixture() {
   const [api] = useState(() => ({ ...owner.api, write: async (...args: Parameters<typeof owner.api.write>) => { const reply = await owner.api.write(...args); render(value => value + 1); return reply; }, close: async () => { await owner.api.close(); setClosed(true); } }));
   return <ThemeProvider style={{minHeight: '100vh'}} appearance={params.get('theme') === 'light' ? 'light' : 'dark'}>
     {!closed ? <WorkflowEditor api={api} /> : <p>Fixture editor closed.</p>}
-    <footer style={{ padding: 'var(--lc-space-24)' }}><Button onClick={() => { void owner.requestClose(); }}>Request window close</Button><output style={{ display:'block' }}>Observed owner writes: {owner.requests.length}. No execution requests.</output><p className="lc-muted">Component fixture · public synthetic in-memory owner; saves and window close are observations, not SQLite or native-session evidence.</p></footer>
+    <footer style={{ padding: 'var(--lc-space-24)' }}><Button onClick={() => { void owner.requestClose(); }}>Request window close</Button><output style={{ display:'block' }}>Observed owner writes: {owner.requests.length}. No execution requests.</output><pre hidden data-observe="stored-graph">{JSON.stringify(owner.record ? { positions: owner.record.draft.editor.positions, viewport: owner.record.draft.editor.viewport ?? null, nodes: owner.record.draft.nodes, edges: owner.record.draft.edges } : null)}</pre><p className="lc-muted">Component fixture · public synthetic in-memory owner; saves and window close are observations, not SQLite or native-session evidence.</p></footer>
   </ThemeProvider>;
 }
 createRoot(document.getElementById('root')!).render(<Fixture />);

diff --git a/apps/desktop/src/features/workflows/canvas/ui/projection.ts b/apps/desktop/src/features/workflows/canvas/ui/projection.ts
@@ -1,0 +1,25 @@
+/**
+ * UI-only canvas projection (presentation, never persisted).
+ *
+ * Node cards use rem tokens (208 px at 100% root text), so they grow with text size, while persisted
+ * `editor.positions` are numeric flow units laid out by the controller with a fixed horizontal step.
+ * The canvas therefore renders every stored position multiplied by one measured factor `f` and maps
+ * pointer/keyboard moves back with the exact inverse. Persisted positions, viewport, undo history and
+ * the execution graph are never rewritten by a text-size change: only an explicit user move writes.
+ *
+ * `f` is chosen so one controller step fits a measured card plus a measured typed-edge label slot,
+ * which keeps default layouts free of card/label collisions at any root text size. Native (CSS pixel)
+ * zoom scales cards and coordinates together, so it leaves `f` unchanged.
+ */
+export type Point = { x: number; y: number };
+
+/** Horizontal step the controller uses for new nodes (`x: index * 240`, flow units). Read-only mirror. */
+export const CONTROLLER_LAYOUT_STEP = 240;
+
+export function projectionFactor(cardWidth: number, labelSlotWidth: number): number {
+  if (!Number.isFinite(cardWidth) || cardWidth <= 0) return 1;
+  const slot = Number.isFinite(labelSlotWidth) && labelSlotWidth > 0 ? labelSlotWidth : 0;
+  return Math.max(1, (cardWidth + slot) / CONTROLLER_LAYOUT_STEP);
+}
+export const toDisplay = (point: Point, factor: number): Point => ({ x: point.x * factor, y: point.y * factor });
+export const toStored = (point: Point, factor: number): Point => ({ x: point.x / factor, y: point.y / factor });

diff --git a/apps/desktop/src/features/workflows/canvas/README.md b/apps/desktop/src/features/workflows/canvas/README.md
@@ -139,17 +139,51 @@ persistence and visible-text names, bound-only shortcuts and Ctrl+S receipt clas
 `apps/desktop/tests/workflow-editor.integration.test.ts` passed on owned private Xvfb (captures in
 `apps/desktop/evidence/instrument-workflows/`). Captures: `evidence/instrument/README.md`.
 
-Limitations and shared requests (coordinator-owned):
+## Text-size projection and typed edge labels (follow-up)
 
-1. Stored node spacing (`controller.add`: x step 240 flow units) ignores text scaling, while card width
-   follows rem tokens, so cards overlap on the canvas at 200% text. Request: derive placement from measured
-   card size or provide a non-overlapping layout helper. Ports stay left/right (not the design's
-   top/bottom) because that controller layout is horizontal.
-2. Shared `Row`: `.lc-row-text` `flex: 1 1 12em` overflows a 240 px sidebar at normal text. Request a
+Card width follows the rem `workflowNodeWidth` token (208 px at 100% text) while persisted
+`editor.positions` are numeric flow units laid out by the controller (`x: index * 240`). The canvas now
+renders through a UI-only projection (`ui/projection.ts`): each stored position is multiplied by one
+measured factor `f = max(1, (measured card width + measured typed-label slot) / 240)` and every
+pointer/keyboard move from React Flow is stored with the exact inverse (`÷ f`). A hidden probe measures
+layout CSS px (`offsetWidth`), so root text size changes `f` while native Electron zoom (uniform CSS-px
+scaling) and transforms do not. Text resizing never writes: stored positions, viewport, undo/redo
+history and the execution graph stay byte-identical; only an explicit user move writes, and Undo
+restores the stored (unprojected) position. Card width, labels/tooltips, ports, pan/zoom, selection,
+focus and the structured no-drag controls are unchanged.
+
+Typed edge labels are restored as a custom `typed` edge (controlBorder curve plus the registry's
+actual output kind, e.g. `text`, in a monospace label with a `title`). The kind is also appended to the
+focusable edge's accessible name (`Connection … in · text`), and card port lines, handles, selects and
+the inspector now read the registry's port kinds instead of a literal.
+
+Ports remain left (input) / right (output). Canonical constraint: the controller persists new nodes on
+one horizontal row (`y: 80`, `x: index * 240`), so top/bottom ports would make every default edge leave
+the bottom of one card and climb into the top of a card on the same row, folding the curve and its label
+across both cards. Adopting top/bottom without that would require transposing persisted coordinates,
+which changes what stored layout means for every other consumer. Proposed (not implemented) pure-layout
+helper if the coordinator wants the design's vertical flow: a `defaultPosition(index)` in the controller
+that places new nodes in a column; manual positions would be untouched.
+
+Verification for this follow-up (same toolchain): `test:ui -- W2-01` 22 passed, including three new
+cases that fail on 8e3d1116 (100%: typed labels absent; 200%: "cards overlap") and pass here: default
+cards and labels never intersect at 100%/200% with labels titled and the edge focusable/named; and text
+resizing leaves writes, stored positions/viewport/nodes/edges and Undo/Redo unchanged while a 200%
+pointer drag stores exactly `screen delta / zoom / f` and Undo restores the stored position (the third
+case also needs the new fixture observation, so on 8e3d it fails for that reason). The actual Electron
+editor flow now also sets `webContents.setZoomFactor(2)`: the projection factor is unchanged, five
+visible sized card/label boxes inside the canvas do not intersect, and stored state is unchanged
+(`apps/desktop/evidence/instrument-workflows/workflow-editor-application-light-zoom-200.png`, captured
+with `webContents.capturePage()` because Playwright element capture ignores Electron zoom).
+
+Remaining limitations and shared requests (coordinator-owned):
+
+1. Shared `Row`: `.lc-row-text` `flex: 1 1 12em` overflows a 240 px sidebar at normal text. Request a
    sidebar/compact Row variant in D1-01; this lane uses a scoped palette grid meanwhile.
-3. Typed edge labels and an invalid-edge rendering are omitted: the 32-unit gap between stored positions
-   leaves no room, and the validator rejects invalid edges before they exist.
-4. New cases live in the already-mapped `tests/editor.ui.test.ts`; no runner mapping change needed.
-5. `packages/storage/tests/workflow-editor.integration.test.ts` (mapped integration W2-01) fails one
-   version-7 migration case on the unchanged parent base (`StorageError invalid-request`); it imports no
-   UI and is outside this lane.
+2. Manually dragged positions may still be placed close together by the user; the projection scales
+   them uniformly and never rearranges them. At 200% a wide chain can extend past the canvas viewport
+   and is reached by panning or Fit view (the persisted viewport is not changed automatically).
+3. No invalid-edge rendering: the validator rejects invalid connections before an edge exists.
+4. New cases live in the mapped `tests/editor.ui.test.ts`; no runner mapping change needed. The fixture
+   adds a hidden labelled `pre[data-observe="stored-graph"]` observation of the synthetic owner record.
+5. The mapped storage integration migration case is outside this lane (parent verifies its baseline).

diff --git a/apps/desktop/src/features/workflows/canvas/evidence/instrument/README.md b/apps/desktop/src/features/workflows/canvas/evidence/instrument/README.md
@@ -14,10 +14,10 @@ session or assistive-technology evidence. The older `../*.png` captures are hist
 | `dark-`/`light-workflow-write-error.png` | Unknown write outcome: unclassified band, Save disabled, autosave stopped, draft editable, empty-canvas plate |
 | `dark-workflow-200-percent.png` | 200% root text at 1000 px: panels wrap; structured controls reachable |
 | `dark-workflow-200-percent-focus.png` | 200% root text with keyboard focus on a structured node row |
-| `dark-`/`light-workflow-forced-colors-focus.png` | Emulated forced colors + reduced motion: Highlight selection outline/rail, focused palette row |
+| `dark-`/`light-workflow-forced-colors-focus.png` | Emulated forced colors + reduced motion: Highlight selection outline/rail, focused palette row, CanvasText typed label |
+| `dark-workflow-canvas-labels-100-percent.png`, `dark-workflow-canvas-labels-200-percent.png` | UI-only text-size projection: default chain with typed `text` edge labels; no card/label intersection at 100% and 200% |
 
-Known limitation visible at 200%: card width follows root text (rem tokens) while stored node spacing does
-not, so canvas cards overlap; the selected card is raised and the structured list stays complete. Layout
-spacing is controller-owned (see canvas README shared requests). Forced colors are Chromium emulation, not
+Canvas captures with nodes were regenerated after the projection/typed-label follow-up; at 200% a wide
+chain can extend past the canvas viewport (reached by panning) but cards never overlap. Forced colors are Chromium emulation, not
 a desktop high-contrast theme. axe runs on every non-forced state; forced-colour cases assert computed
 system-colour outlines/borders instead (axe compares authored colours with the forced canvas).

diff --git a/apps/desktop/evidence/instrument-workflows/README.md b/apps/desktop/evidence/instrument-workflows/README.md
@@ -8,6 +8,7 @@ Produced by the existing production Electron flows after the Instrument presenta
 | File | State |
 | --- | --- |
 | `workflow-editor-application-{dark,light}-saved.png` | Registered launcher → editor; keyboard-built three-node graph explicitly saved (exact receipt notice), Run enabled for the saved version |
+| `workflow-editor-application-light-zoom-200.png` | Native `webContents.setZoomFactor(2)`: unchanged projection factor, typed labels between non-overlapping cards (captured with `webContents.capturePage()`) |
 | `workflow-run-application-dark-approval.png` | Explicit Run of the saved version; real PermissionBroker clipboard approval pending |
 | `workflow-run-application-light-result.png` | After real broker decision: host succeeded with clipboard receipt (clipboard of the owned private Xvfb display, seeded with a public sentinel; no host clipboard) |
 | `workflow-launcher-application-dark-open.png` | Saved Keyword opened from launcher without any run |
